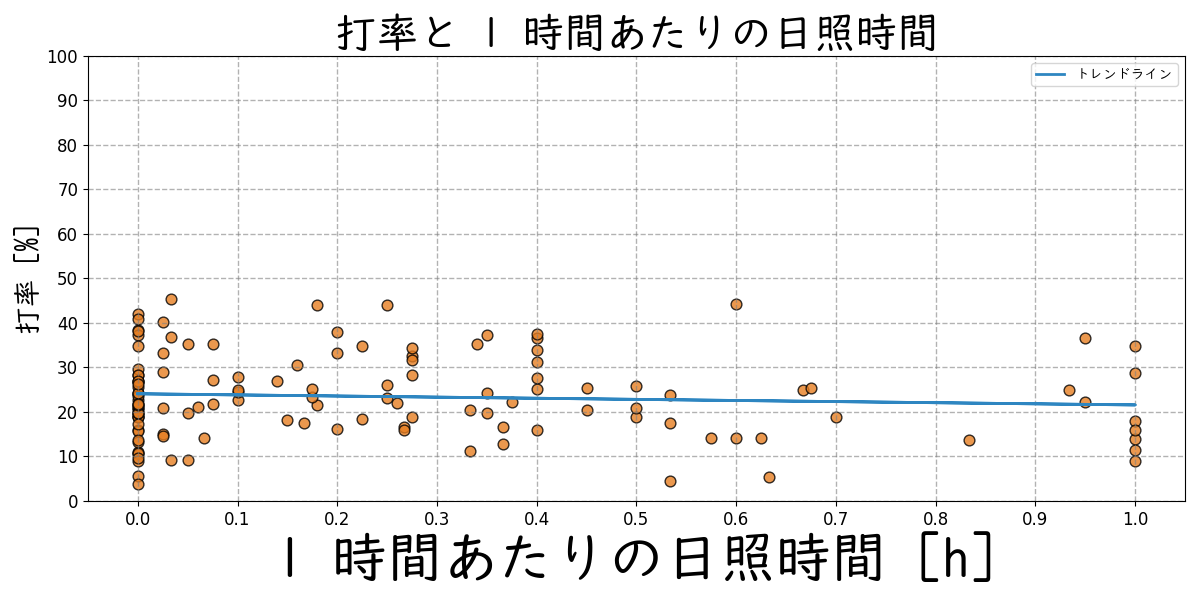
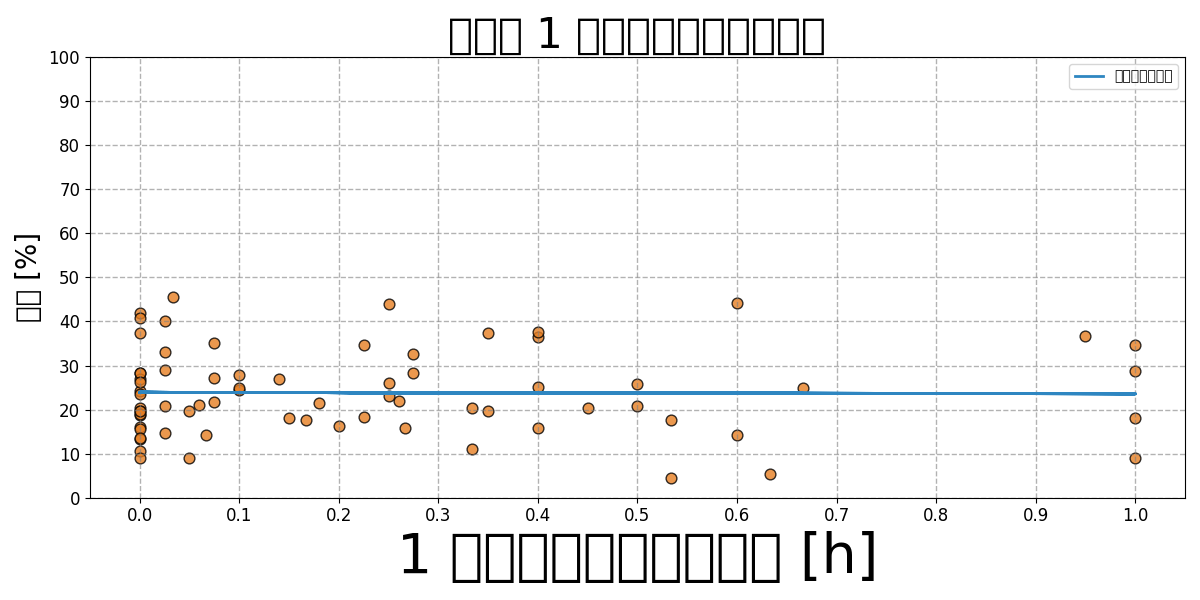
lmao

diff --git a/Code/tempCodeRunnerFile.py b/Code/tempCodeRunnerFile.py
@@ -1,134 +1,1 @@
-# ファイル名：Environment_Graph.py
-# 作成者：ディウ（Pitipat Wattananantapan）
-# 作成日：2025年11月3日
-# 内容：試合データと環境データを組み合わせ、打率と気象条件（気温・湿度・日照時間・視程・天気）の関係を分析・可視化するプログラム
-
-import numpy as np
-import pandas as pd
-import csv
-import matplotlib.pyplot as plt
-import os
-from collections import Counter
-
-# ----------------------------------------------------------
-# データ読み込み
-# ----------------------------------------------------------
-
-game_df = pd.read_csv('Data/game.csv', encoding='utf-8') # 試合成績データ（打数・打率など）
-gameTime_df = pd.read_csv('Data/gameTime.csv', encoding='utf-8') # 試合時間データ（時間帯）
-env_df = pd.read_csv('Data/Environment_Data.csv', encoding='utf-8') # 環境データ（気温・湿度・日照時間・視程・天気）
-
-# ----------------------------------------------------------
-# 打数が0の行を除外（打率計算に不要なデータを削除）
-# ----------------------------------------------------------
-
-game_df = game_df[game_df['打数'] > 0]
-
-# ----------------------------------------------------------
-# matchIDごとに平均打率を計算
-# ----------------------------------------------------------
-
-game_df = game_df.groupby('matchID')['打率'].mean().reset_index()
-game_df['打率'] = game_df['打率'] * 100
-print(game_df)
-
-
-# ----------------------------------------------------------
-# 試合時間データの加工
-# ----------------------------------------------------------
-
-gameTime_df["時間帯"] = gameTime_df["時間帯"].str.replace(" ", "") # 空白削除
-gameTime_df[["開始時間", "終了時間"]] = gameTime_df["時間帯"].str.split("-", expand=True) # 開始・終了時間を分割
-gameTime_df["開始時間"] = gameTime_df["開始時間"].astype(int)
-gameTime_df["終了時間"] = gameTime_df["終了時間"].astype(int)
-gameTime_df = gameTime_df.drop(columns=["時間帯"]) # 不要列削除
-
-# ----------------------------------------------------------
-# 打率データと試合時間データを結合
-# ----------------------------------------------------------
-
-game_df = pd.merge(game_df, gameTime_df, on='matchID')
-
-# ----------------------------------------------------------
-# 環境データの加工
-# ----------------------------------------------------------
-
-env_df['時刻'] = env_df['時刻'].str[:2].astype(int) # 時刻列から時間のみを抽出して整数型に変換
-env_df['日付'] = env_df['日付'].astype(str).apply(lambda x: f"{x[:4]}{int(x[4:6])}{int(x[6:])}") # 日付を整形 2025410
-env_df['日付'] = env_df['日付'].astype(int)
-# ----------------------------------------------------------
-# 日付(matchID)で打率データと環境データを結合
-# ----------------------------------------------------------
-
-env_df = pd.merge(env_df, game_df, left_on="日付", right_on='matchID')
-
-# ----------------------------------------------------------
-# 時刻が試合開始～終了の範囲内のデータのみ抽出
-# ----------------------------------------------------------
-
-env_df = env_df[(env_df['時刻'] >= env_df['開始時間']) & (env_df['時刻'] <= env_df['終了時間'])]
-
-#----------------------------------------------------------
-# 不要列を削除
-# ----------------------------------------------------------
-
-env_df = env_df.drop(columns=['時刻', 'matchID', '開始時間', '終了時間'])
-
-# ----------------------------------------------------------
-# 日付ごとにまとめてリスト化
-# ----------------------------------------------------------
-
-df = env_df.groupby('日付').agg(list).reset_index()
-
-# ----------------------------------------------------------
-# 数値列の平均値を計算
-# ----------------------------------------------------------
-
-numeric_cols = ['気温(°C)', '湿度(%)', '日照時間(h)', '視程(km)', '打率']
-for col in numeric_cols:
-    df[col] = df[col].apply(lambda x: sum(x)/len(x) if isinstance(x, list) and len(x) > 0 else None)
-
-# ----------------------------------------------------------
-# 天気の最頻値（モード）を取得
-# ----------------------------------------------------------
-
-df['最頻天気'] = df['天気'].apply(lambda x: Counter(x).most_common(1)[0][0] if isinstance(x, list) else None)
-
-# ----------------------------------------------------------
-# グラフ用に列名を変更
-# ----------------------------------------------------------
-
-df = df.rename(columns={
-'打率': 'batting',
-'気温(°C)': 'avg_temp',
-'湿度(%)': 'avg_humidity',
-'日照時間(h)': 'avg_insolation',
-'視程(km)': 'avg_visibility'
-})
-
-# ----------------------------------------------------------
-# 【7】気温と打率の関係の可視化
-# ----------------------------------------------------------
-absolute_directory = "C:\Users\acer\Documents\Sports-Analysis-Cloned\Outputs\Dew"  # Example absolute path
-
-plt.figure(figsize=(12, 6))
-plt.scatter(df['avg_temp'], df['batting'], color="#4BA322", s=60, edgecolors="#000000", alpha=0.8, linewidths=1) # 散布図
-z = np.polyfit(df['avg_temp'], df['batting'], 1) # 1次回帰
-p = np.poly1d(z)
-plt.plot(df['avg_temp'], p(df['avg_temp']), color="#DC1111DC", linewidth=2, label="トレンドライン") # 回帰曲線
-plt.legend(fontsize=40, prop={"family": "UD Digi Kyokasho N"}, loc="upper right")
-
-plt.ylim(0.0, 1.0)
-plt.xlim(min(df['avg_temp']) + 2, max(df['avg_temp']) + 2)
-x_ticks = np.arange(int(min(df['avg_temp'])) - 2, int(max(df['avg_temp'])) + 3, 2)
-y_ticks = np.arange(0.0, 101, 10)
-plt.xticks(x_ticks)
-plt.yticks(y_ticks)
-plt.ylabel("打率 [%]", fontsize=15, fontname="UD Digi Kyokasho N")
-plt.xlabel("気温 [℃]", fontsize=15, fontname="UD Digi Kyokasho N")
-plt.title("打率と気温の関係 (2025年3月28日〜10月4日)", fontsize=16, fontname="UD Digi Kyokasho N")
-plt.grid(color="gray", linestyle="--", linewidth=1, alpha=0.6)
-plt.tight_layout()
-full_path = os.path.join(absolute_directory, "Temperature.png")
-plt.savefig(full_path)
-plt.show()
+game_df = pd.merge(game_df, gameStadium_df, left_on = "matchID", right_on = "matchID")

diff --git a/Code/Environment_Graph.py b/Code/Environment_Graph.py
@@ -12,6 +12,11 @@ game_df = pd.read_csv('Data/game.csv', encoding='utf-8')
 gameTime_df = pd.read_csv('Data/gameTime.csv', encoding='utf-8')
 env_df = pd.read_csv('Data/Ver2/environmentHiroshima.csv', encoding='utf-8')
 
+# マツダスタジアムの試合のみ使用
+gameStadium_df = pd.read_csv('Data/Ver2/gameStadiumHiroshima.csv', encoding='utf-8')
+gameStadium_df = gameStadium_df[gameStadium_df["球場"] == "マツダ"]
+game_df = pd.merge(game_df, gameStadium_df, left_on = "matchID", right_on = "matchID")
+
 # 打率計算
 game_df = game_df[game_df['打数'] > 0] 
 game_df = game_df.groupby('matchID')['打率'].mean().reset_index()
